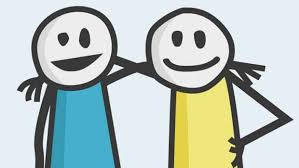
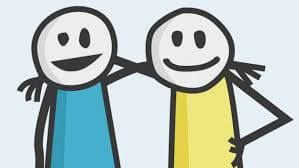
possible background fix

diff --git a/portfolio.html b/portfolio.html
@@ -14,11 +14,12 @@
       integrity="sha384-Gn5384xqQ1aoWXA+058RXPxPg6fy4IWvTNh0E263XmFcJlSAwiGgFAW/dAiS6JXm"
       crossorigin="anonymous"
     />
+    <link rel="stylesheet" type="text/css" href="assets/css/style.css" />
     <title>Alejandro Barron's Website</title>
   </head>
-  <link rel="stylesheet" type="text/css" href="assets/css/style.css" />
+  
 
-  <body background="assets/images/Background1.png">
+  <body>
     <nav>
       <div id="logo">Alejandro Barron</div>
 

diff --git a/contact.html b/contact.html
@@ -22,7 +22,7 @@
 
   <script src="https://www.gstatic.com/firebasejs/5.6.0/firebase.js"></script>
   <link rel="stylesheet" type="text/css" href="assets/css/style.css" />
-  <body background="assets/images/Background1.png">
+  <body>
     
     <nav>
       <div id="logo">Alejandro Barron</div>

diff --git a/index.html b/index.html
@@ -17,7 +17,7 @@
     <title>Alejandro Barron's Website</title>
   </head>
     <link rel="stylesheet" type="text/css" href="assets/css/style.css" />
-  <body background="assets/images/Background1.png" id="body">
+  <body>
    
 
     <nav>

diff --git a/assets/css/style.css b/assets/css/style.css
@@ -374,7 +374,8 @@ input::placeholder {
 }
 
 body {
-    background: #ddd;
+    background: url("/assets/images/Background.png") no-repeat center center;
+    background-size: cover;
     padding-bottom: 45px;
 }
 
